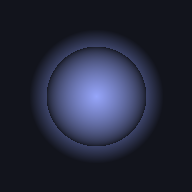
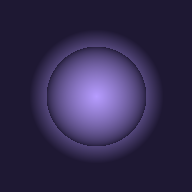
Purple theme; credit the book by its title
Claude-Session: https://claude.ai/code/session_01FQKSugdDMMnd2ED1RsEdQ3

Changed region(s): [[0.3438, 0.3438, 0.6562, 0.6562]]

diff --git a/docs/app.js b/docs/app.js
@@ -21,7 +21,7 @@ const tallyOf = (id, day = dayKey()) => (S.tally?.[day] || {})[id] || 0;
 function bump(id) { S.tally ||= {}; const t = (S.tally[dayKey()] ||= {}); t[id] = (t[id] || 0) + 1; save(); }
 function toast(t) {
   const el = document.createElement('div'); el.textContent = t;
-  el.style.cssText = 'position:fixed;left:50%;bottom:90px;transform:translateX(-50%);background:#6fcf97;color:#12141c;padding:10px 18px;border-radius:20px;font-weight:700;z-index:9';
+  el.style.cssText = 'position:fixed;left:50%;bottom:90px;transform:translateX(-50%);background:#6fcf97;color:#1e1833;padding:10px 18px;border-radius:20px;font-weight:700;z-index:9';
   document.body.appendChild(el); setTimeout(() => el.remove(), 2200);
 }
 function streak() {
@@ -228,7 +228,7 @@ function About() {
   <ul>
     <li><b>Joe Dispenza</b> — chakra attention and coherence work</li>
     <li><b>Guru Pathik</b>, in <i>Avatar: The Last Airbender</i> — the chakra lesson</li>
-    <li><b>First Steps to the Control of Your Destiny</b> — the mental training, meditation, healing, projection, and cycles teachings</li>
+    <li><b>Wisdom of the Mystic Masters</b> — the mental training, meditation, healing, projection, and cycles teachings</li>
     <li>The yogic, tantric, and Rosicrucian traditions all of the above draw on</li>
     <li>Every teacher, student, and practitioner who passed these on</li>
   </ul>

diff --git a/docs/style.css b/docs/style.css
@@ -1,4 +1,4 @@
-:root { --bg:#12141c; --card:#1c2030; --line:#2a3045; --text:#e8eaf2; --dim:#9aa1b8; --accent:#8b9cf7; --good:#6fcf97; --warn:#f2c94c; --bad:#eb7a7a; }
+:root { --bg:#1e1833; --card:#2b2347; --line:#3d3560; --text:#efeaf8; --dim:#aea6cb; --accent:#b69cff; --good:#6fcf97; --warn:#f2c94c; --bad:#eb7a7a; }
 * { box-sizing: border-box; -webkit-tap-highlight-color: transparent; }
 html, body { margin: 0; background: var(--bg); color: var(--text); font: 15px/1.45 system-ui, -apple-system, Roboto, sans-serif; }
 #view { max-width: 640px; margin: 0 auto; padding: 16px 16px calc(84px + env(safe-area-inset-bottom)); padding-top: calc(16px + env(safe-area-inset-top)); }

diff --git a/docs/index.html b/docs/index.html
@@ -3,7 +3,7 @@
 <head>
 <meta charset="utf-8">
 <meta name="viewport" content="width=device-width, initial-scale=1, viewport-fit=cover">
-<meta name="theme-color" content="#12141c">
+<meta name="theme-color" content="#1e1833">
 <title>Mindful</title>
 <link rel="manifest" href="manifest.webmanifest">
 <link rel="icon" href="icon-192.png">
